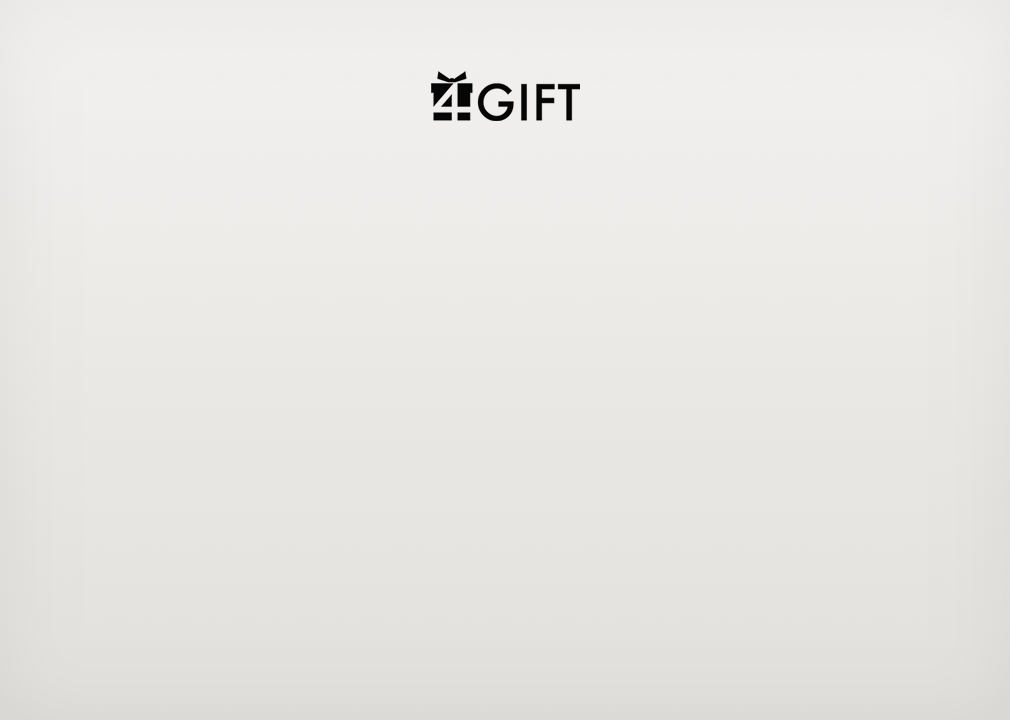
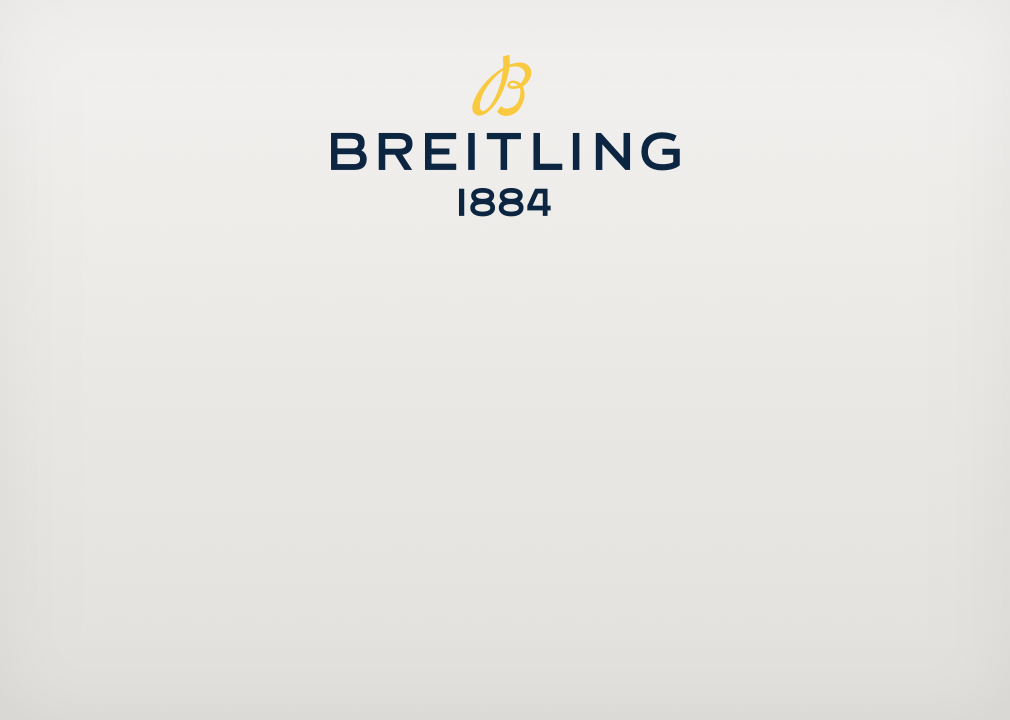
replace default image for breitling

Changed region(s): [[0.3069, 0.0611, 0.6752, 0.3056]]

diff --git a/unwrapping-new-0.8.32.js b/unwrapping-new-0.8.32.js
@@ -19,7 +19,7 @@ class GiftUnwrapping {
     letterMessages = [];
     pauseButton;
     imagesName = [
-        "https://cdn.jsdelivr.net/gh/4gift/4gift-gift-unwrapping/assets/brand/desktop/background-pattern-1.jpg",
+        "https://cdn.jsdelivr.net/gh/4gift/4gift-gift-unwrapping/assets/brand/desktop/background-pattern-2.jpg",
         "https://cdn.jsdelivr.net/gh/4gift/4gift-gift-unwrapping/assets/brand/desktop/box-dustbag.png",
         "https://cdn.jsdelivr.net/gh/4gift/4gift-gift-unwrapping/assets/brand/desktop/box-empty.png",
         "https://cdn.jsdelivr.net/gh/4gift/4gift-gift-unwrapping/assets/brand/desktop/box-tissue.png",
